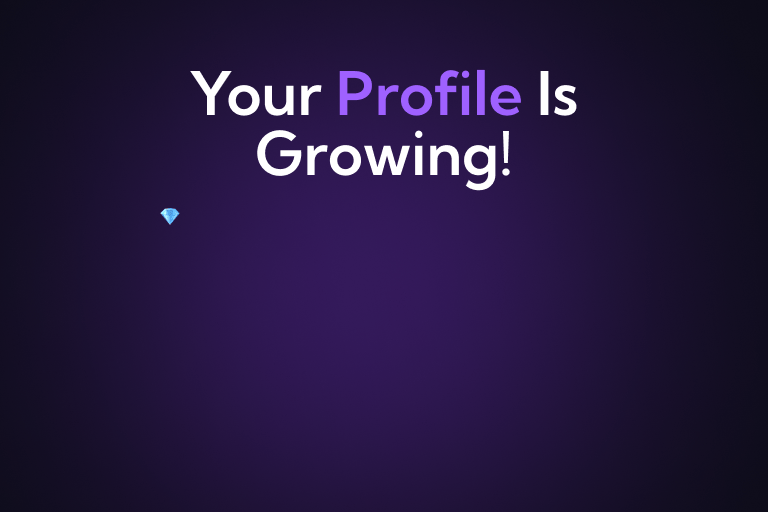
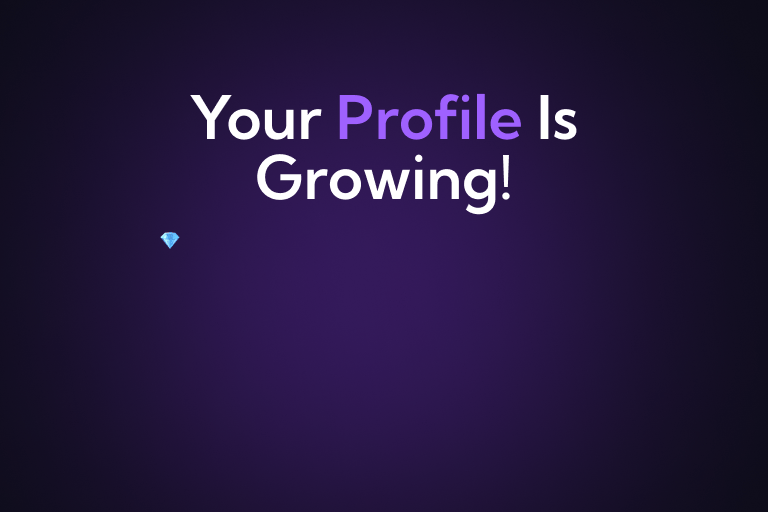
More slight adjustments to results frame

Changed region(s): [[0.25, 0.125, 0.75, 0.4375], [0.1875, 0.4062, 0.25, 0.5]]

diff --git a/pages/api/profile/[fid].ts b/pages/api/profile/[fid].ts
@@ -55,7 +55,7 @@ const getProfileFramePictureImage = async (
   baseImage.print(
     font20,
     190,
-    240,
+    226,
     {
       text: 'You earned 4 points, Share for 25 more!',
       alignmentX: Jimp.HORIZONTAL_ALIGN_LEFT,
